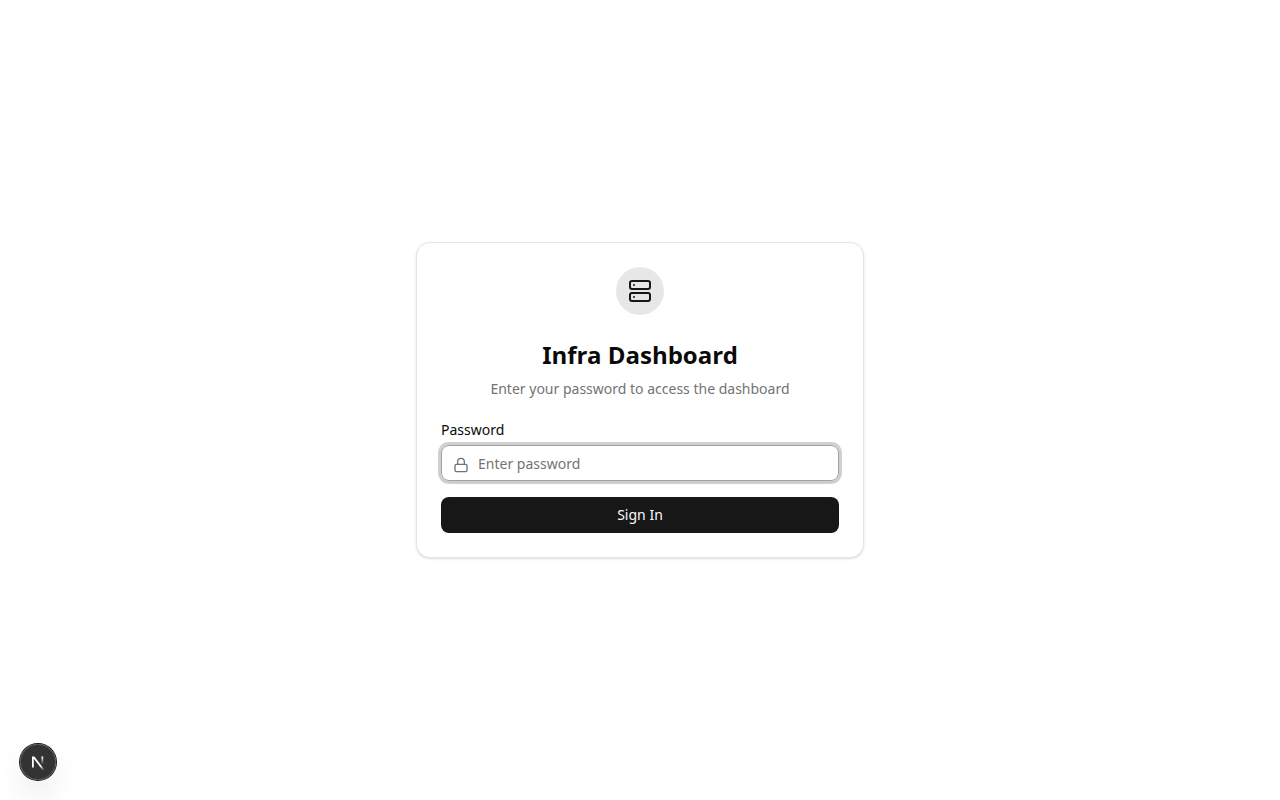
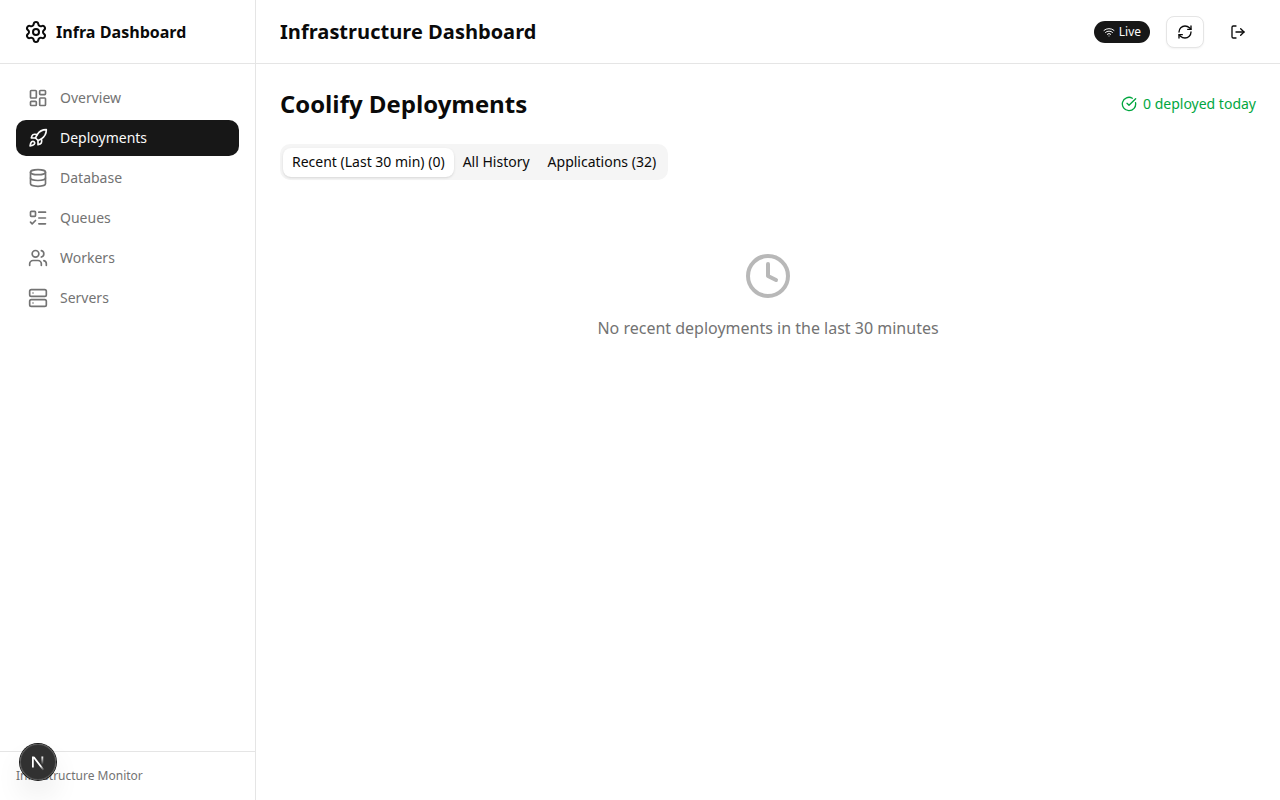
Fix screenshot script authentication and SSE timeout
- Add login flow before capturing screenshots
- Use domcontentloaded instead of networkidle (SSE keeps connection open)
- Add explicit wait for data to load
- Recaptured all screenshots with actual dashboard content

diff --git a/src/app/(dashboard)/coolify/page.tsx b/src/app/(dashboard)/coolify/page.tsx
@@ -1,6 +1,6 @@
 'use client';
 
-import { useEffect, useState } from 'react';
+import { useEffect, useState, useCallback } from 'react';
 import { ApplicationList } from '@/components/coolify/ApplicationList';
 import { DeploymentCard } from '@/components/coolify/DeploymentCard';
 import { DeploymentProgressList } from '@/components/coolify/DeploymentProgress';
@@ -59,7 +59,10 @@ export default function CoolifyPage() {
     }
   };
 
-  const fetchAllDeployments = async (isInitial = false) => {
+  const fetchAllDeployments = useCallback(async (
+    options: { isInitial?: boolean; cursor?: string | null } = {}
+  ) => {
+    const { isInitial = false, cursor } = options;
     if (isInitial) {
       setAllDeployments([]);
       setNextCursor(null);
@@ -70,7 +73,7 @@ export default function CoolifyPage() {
       const params = new URLSearchParams({
         view: 'all',
         limit: '50',
-        ...(nextCursor && !isInitial && { cursor: nextCursor }),
+        ...(cursor && !isInitial && { cursor }),
         ...(statusFilter.length > 0 && { status: statusFilter.join(',') }),
         ...(applicationFilter && { application: applicationFilter }),
         ...(startDate && { startDate }),
@@ -94,12 +97,12 @@ export default function CoolifyPage() {
     } finally {
       setLoadingMore(false);
     }
-  };
+  }, [statusFilter, applicationFilter, startDate, endDate]);
 
   const loadMoreDeployments = () => {
     if (nextCursor && !loadingMore) {
       setLoadingMore(true);
-      fetchAllDeployments(false);
+      fetchAllDeployments({ cursor: nextCursor });
     }
   };
 
@@ -126,19 +129,11 @@ export default function CoolifyPage() {
     return () => clearInterval(interval);
   }, [activeDeployments.length, isConnected]);
 
-  // Fetch all deployments when switching to "All History" tab
+  // Fetch all deployments when viewing history (also refreshes when filters change)
   useEffect(() => {
-    if (activeTab === 'history' && allDeployments.length === 0) {
-      fetchAllDeployments(true);
-    }
-  }, [activeTab]);
-
-  // Refetch when filters change
-  useEffect(() => {
-    if (activeTab === 'history') {
-      fetchAllDeployments(true);
-    }
-  }, [statusFilter, applicationFilter, startDate, endDate]);
+    if (activeTab !== 'history') return;
+    fetchAllDeployments({ isInitial: true });
+  }, [activeTab, fetchAllDeployments]);
 
   const handleDeploy = async (uuid: string, force = false) => {
     try {

diff --git a/src/components/dashboard/Sidebar.tsx b/src/components/dashboard/Sidebar.tsx
@@ -28,15 +28,18 @@ interface SidebarProps {
   onClose?: () => void;
 }
 
-export function Sidebar({ isOpen, onClose }: SidebarProps) {
-  const pathname = usePathname();
+interface SidebarContentProps {
+  pathname: string;
+  onClose?: () => void;
+}
 
+function SidebarContent({ pathname, onClose }: SidebarContentProps) {
   const handleNavClick = () => {
     // Close sidebar on mobile after navigation
     onClose?.();
   };
 
-  const SidebarContent = () => (
+  return (
     <>
       {/* Logo */}
       <div className="flex h-16 items-center justify-between border-b px-6">
@@ -86,12 +89,16 @@ export function Sidebar({ isOpen, onClose }: SidebarProps) {
       </div>
     </>
   );
+}
+
+export function Sidebar({ isOpen, onClose }: SidebarProps) {
+  const pathname = usePathname();
 
   return (
     <>
       {/* Desktop sidebar - always visible on md+ */}
       <div className="hidden md:flex h-full w-64 flex-col border-r bg-background">
-        <SidebarContent />
+        <SidebarContent pathname={pathname} />
       </div>
 
       {/* Mobile sidebar - drawer with backdrop */}
@@ -105,7 +112,7 @@ export function Sidebar({ isOpen, onClose }: SidebarProps) {
           />
           {/* Drawer */}
           <div className="fixed inset-y-0 left-0 z-50 flex w-64 flex-col border-r bg-background shadow-lg md:hidden">
-            <SidebarContent />
+            <SidebarContent pathname={pathname} onClose={onClose} />
           </div>
         </>
       )}

diff --git a/scripts/screenshots.ts b/scripts/screenshots.ts
@@ -21,11 +21,31 @@ async function takeScreenshots() {
   const page = await browser.newPage({ viewport: { width: 1280, height: 800 } })
 
   const baseUrl = process.env.BASE_URL || 'http://localhost:3000'
+  const password = process.env.DASHBOARD_PASSWORD
+
+  // Login if password is set
+  if (password) {
+    console.log('Authenticating...')
+    await page.goto(`${baseUrl}/login`)
+    await page.waitForLoadState('networkidle')
+
+    // Fill in password and submit
+    await page.fill('input[type="password"]', password)
+    await page.click('button[type="submit"]')
+
+    // Wait for redirect to dashboard
+    await page.waitForURL(`${baseUrl}/`, { timeout: 10000 })
+    console.log('Authenticated successfully')
+  }
+
+  // Wait for data to load on first page
+  await page.waitForTimeout(2000)
 
   for (const screenshot of SCREENSHOTS) {
     try {
-      await page.goto(`${baseUrl}${screenshot.path}`)
-      await page.waitForLoadState('networkidle')
+      await page.goto(`${baseUrl}${screenshot.path}`, { waitUntil: 'domcontentloaded' })
+      // Wait for data to load (SSE keeps connection open so networkidle won't work)
+      await page.waitForTimeout(3000)
       await page.screenshot({
         path: path.join(outputDir, `${screenshot.name}.png`),
         fullPage: false

diff --git a/src/app/(dashboard)/coolify/[uuid]/page.tsx b/src/app/(dashboard)/coolify/[uuid]/page.tsx
@@ -1,6 +1,6 @@
 'use client';
 
-import { useEffect, useState } from 'react';
+import { useEffect, useState, useCallback } from 'react';
 import { useParams, useRouter } from 'next/navigation';
 import { DeploymentCard } from '@/components/coolify/DeploymentCard';
 import { DeploymentLogs } from '@/components/coolify/DeploymentLogs';
@@ -23,7 +23,7 @@ export default function DeploymentDetailPage() {
   const [refreshing, setRefreshing] = useState(false);
   const [cancelling, setCancelling] = useState(false);
 
-  const fetchDeployment = async () => {
+  const fetchDeployment = useCallback(async () => {
     try {
       const res = await fetch(`/api/coolify/deployments/${uuid}`);
       if (res.ok) {
@@ -36,7 +36,7 @@ export default function DeploymentDetailPage() {
       setLoading(false);
       setRefreshing(false);
     }
-  };
+  }, [uuid]);
 
   useEffect(() => {
     fetchDeployment();
@@ -49,7 +49,7 @@ export default function DeploymentDetailPage() {
     }, 5000);
 
     return () => clearInterval(interval);
-  }, [uuid, deployment?.status]);
+  }, [fetchDeployment, deployment?.status]);
 
   const handleRefresh = () => {
     setRefreshing(true);

diff --git a/src/lib/coolify/db.ts b/src/lib/coolify/db.ts
@@ -112,7 +112,7 @@ export async function getAllDeployments(
 
   // Build WHERE clauses
   const whereClauses = ["status NOT IN ('queued', 'in_progress')"];
-  const params: any[] = [];
+  const params: Array<string | number | string[]> = [];
   let paramIndex = 1;
 
   if (cursor) {
@@ -277,7 +277,7 @@ export async function getDeploymentByUuid(uuid: string): Promise<DeploymentWithL
  */
 export async function healthCheck(): Promise<{ ok: boolean; message: string }> {
   try {
-    const result = await pool.query('SELECT 1');
+    await pool.query('SELECT 1');
     return { ok: true, message: 'Connected to Coolify database' };
   } catch (error) {
     return {

diff --git a/src/lib/prometheus/client.ts b/src/lib/prometheus/client.ts
@@ -169,7 +169,7 @@ export async function getPostgresHealth(): Promise<PostgresHealth> {
 
     try {
       const pgbouncerActive = await queryPrometheus('sum(pgbouncer_pools_client_active_connections)');
-      const pgbouncerWaiting = await queryPrometheus('sum(pgbouncer_pools_client_waiting_connections)');
+      await queryPrometheus('sum(pgbouncer_pools_client_waiting_connections)');
       const pgbouncerServerIdle = await queryPrometheus('sum(pgbouncer_pools_server_idle_connections)');
 
       activeConns = getValue(pgbouncerActive);

diff --git a/src/lib/auth.ts b/src/lib/auth.ts
@@ -23,7 +23,6 @@ export function validatePassword(password: string): boolean {
 // Create a simple session token (just a timestamp hash for simplicity)
 function createSessionToken(): string {
   const timestamp = Date.now().toString();
-  const secret = process.env.DASHBOARD_PASSWORD || 'default-secret';
   // Simple token: base64 of timestamp + secret hash indicator
   return Buffer.from(`${timestamp}:valid`).toString('base64');
 }
